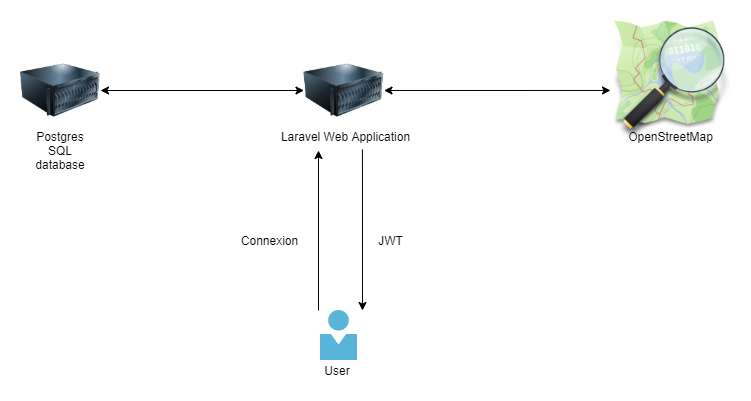
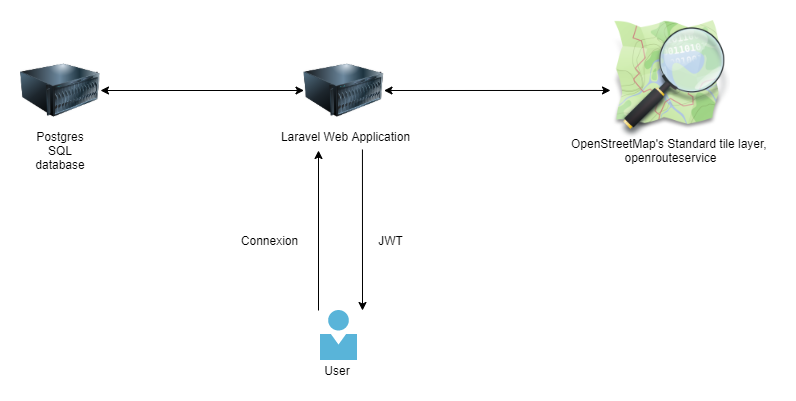
Change landing to hello world and edit schema
- Change landing-page.blade.php to hello-world.blade.php
- Change LandingPage.php to HelloWorld.php
- Edit route web from landing_page to hello-world
- Edit schema to specify which service is used

diff --git a/webApp/routes/web.php b/webApp/routes/web.php
@@ -2,7 +2,7 @@
 
 use Illuminate\Support\Facades\DB;
 use Illuminate\Support\Facades\Route;
-use App\Http\Livewire\LandingPage;
+use App\Http\Livewire\HelloWorld;
 /*
 |--------------------------------------------------------------------------
 | Web Routes
@@ -22,4 +22,4 @@ Route::get('/db-version', function () {
     return DB::select("SELECT version()");
 });
 
-Route::get("landing_page", LandingPage::class);
+Route::get("/hello-world", HelloWorld::class);

diff --git a/webApp/app/Http/Livewire/HelloWorld.php b/webApp/app/Http/Livewire/HelloWorld.php
@@ -4,12 +4,12 @@ namespace App\Http\Livewire;
 
 use Livewire\Component;
 
-class LandingPage extends Component
+class HelloWorld extends Component
 {
     public string $name = "TOTO";
     public function render()
     {
-        return view('livewire.landing-page');
+        return view('livewire.hello-world');
     }
     public function delete()
     {

diff --git a/webApp/resources/views/livewire/hello-world.blade.php b/webApp/resources/views/livewire/hello-world.blade.php
@@ -1,5 +1,5 @@
 <div>
     <input wire:model="name" type="text">
     Hello world ! {{ $name  }}
-    <button wire:click="delete">Delete Post</button>
+    <button wire:click="delete">Delete name</button>
 </div>
